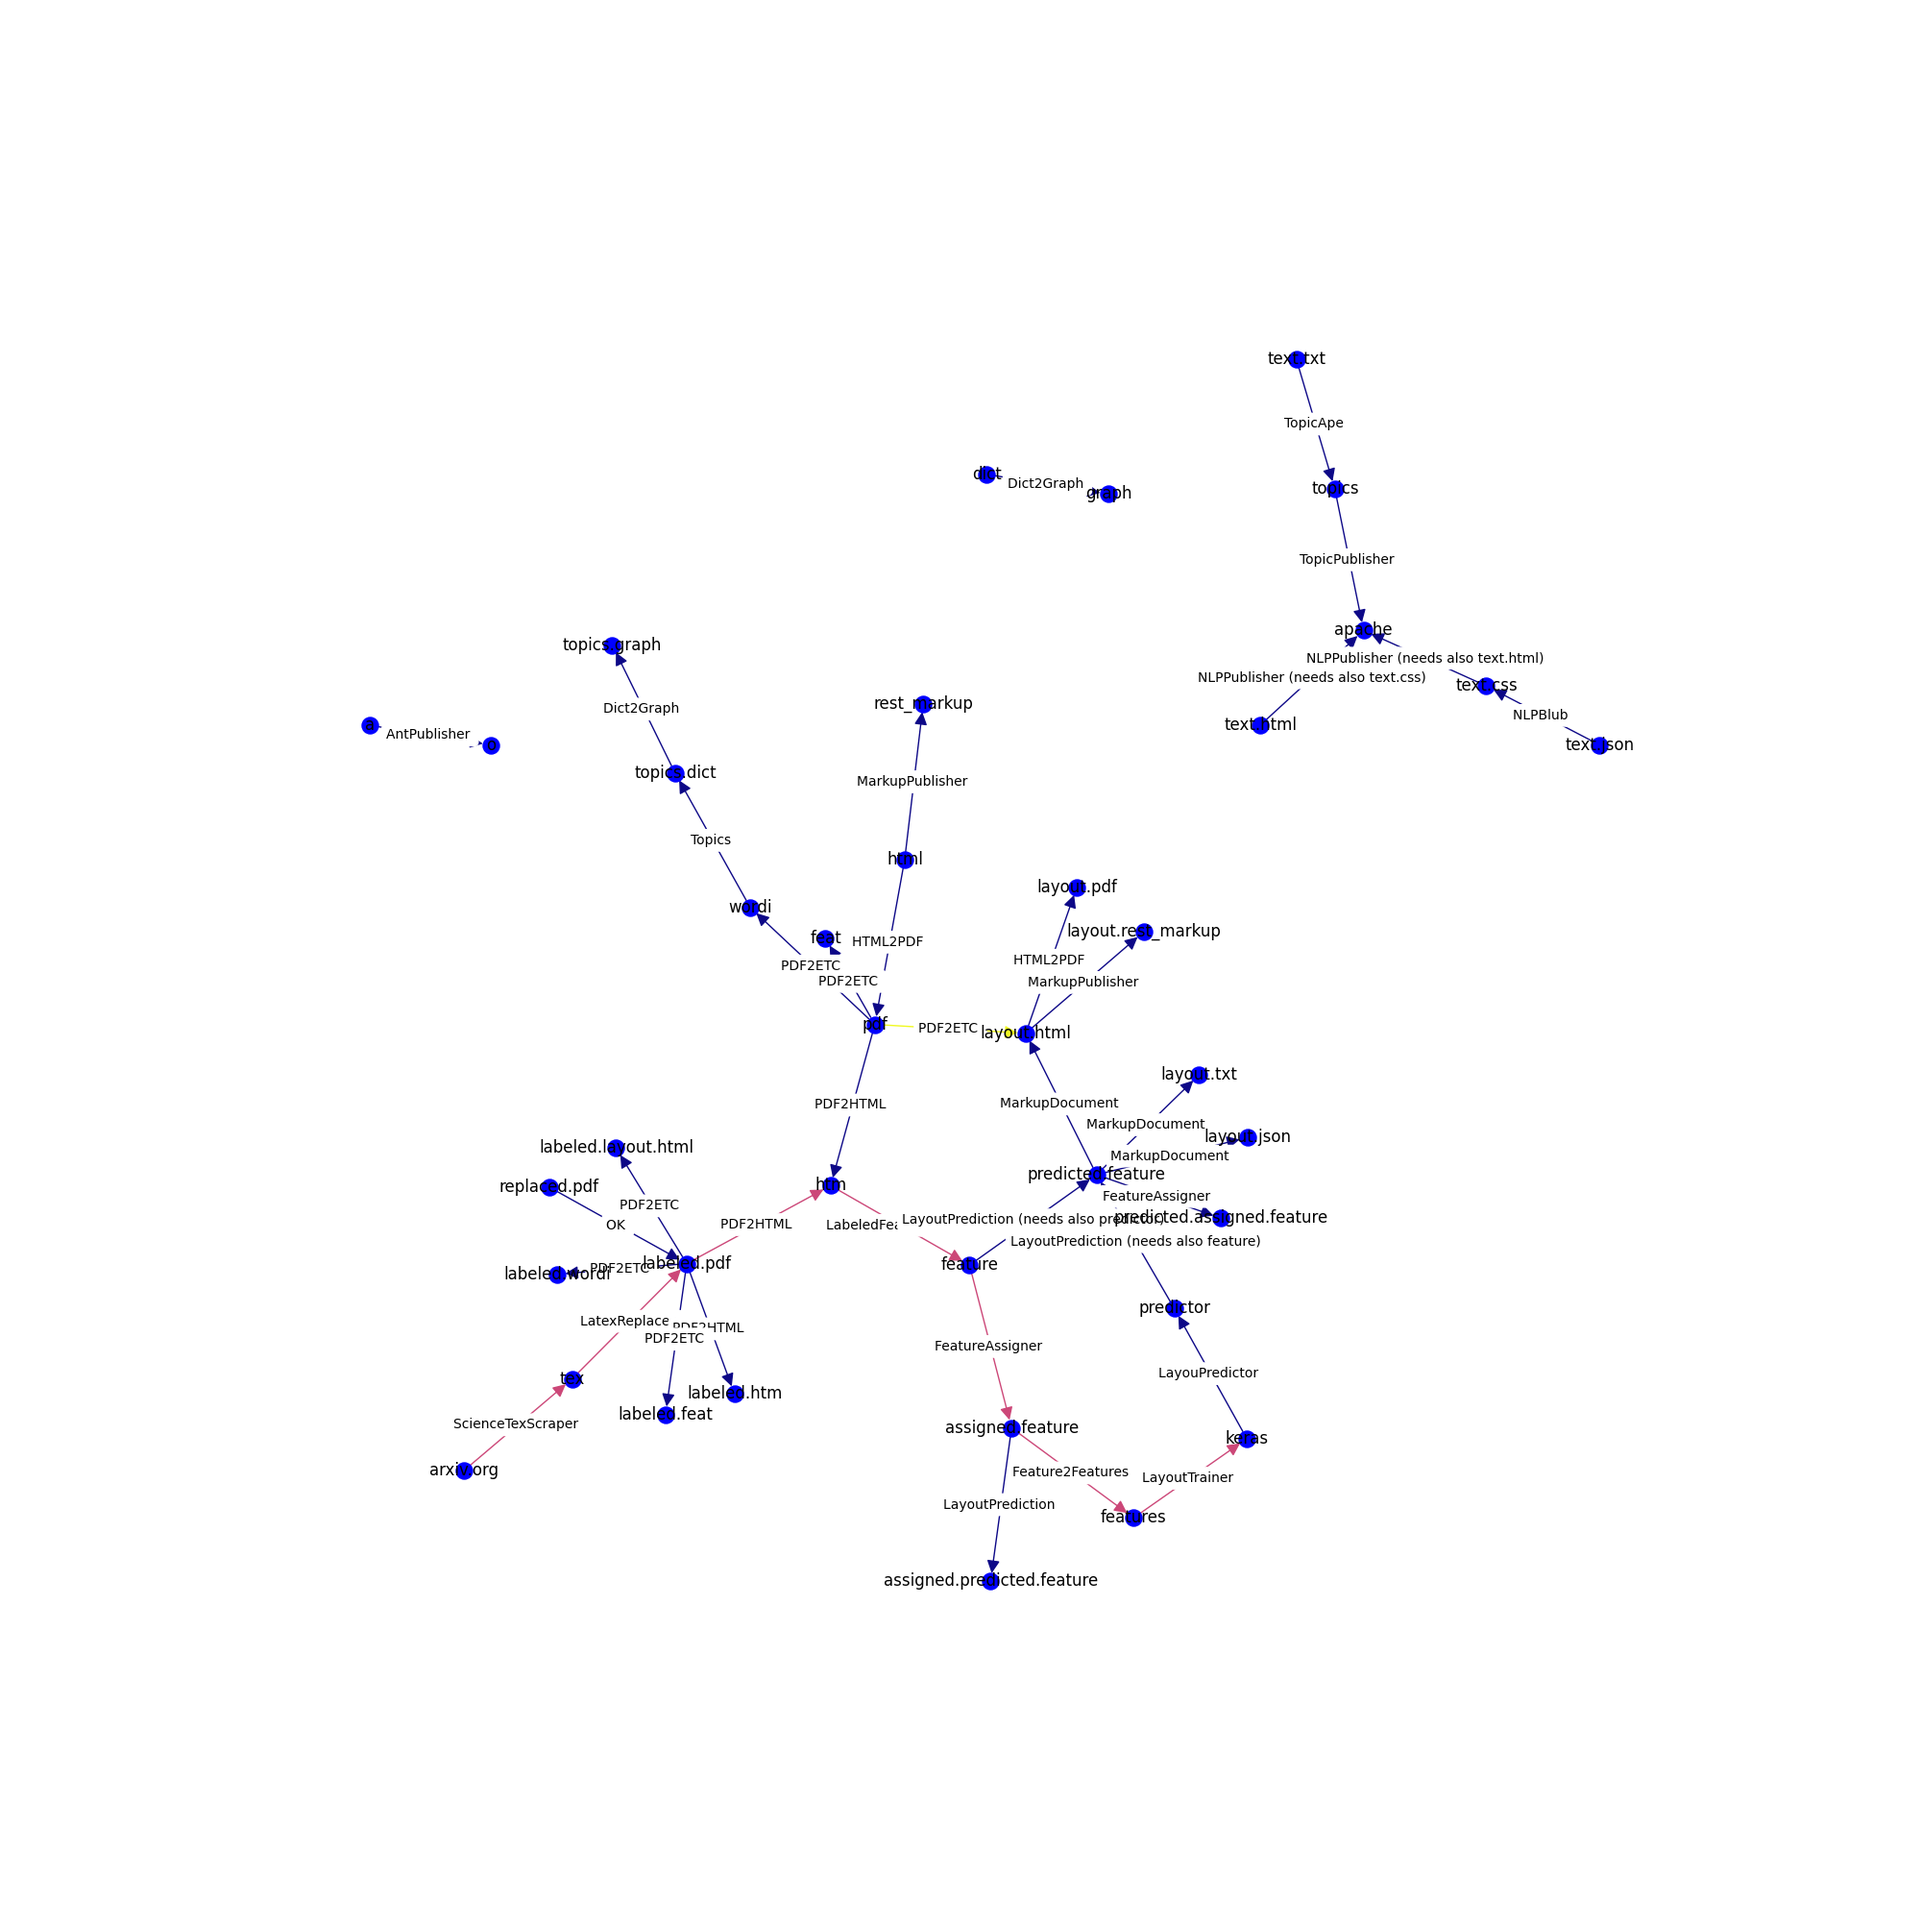
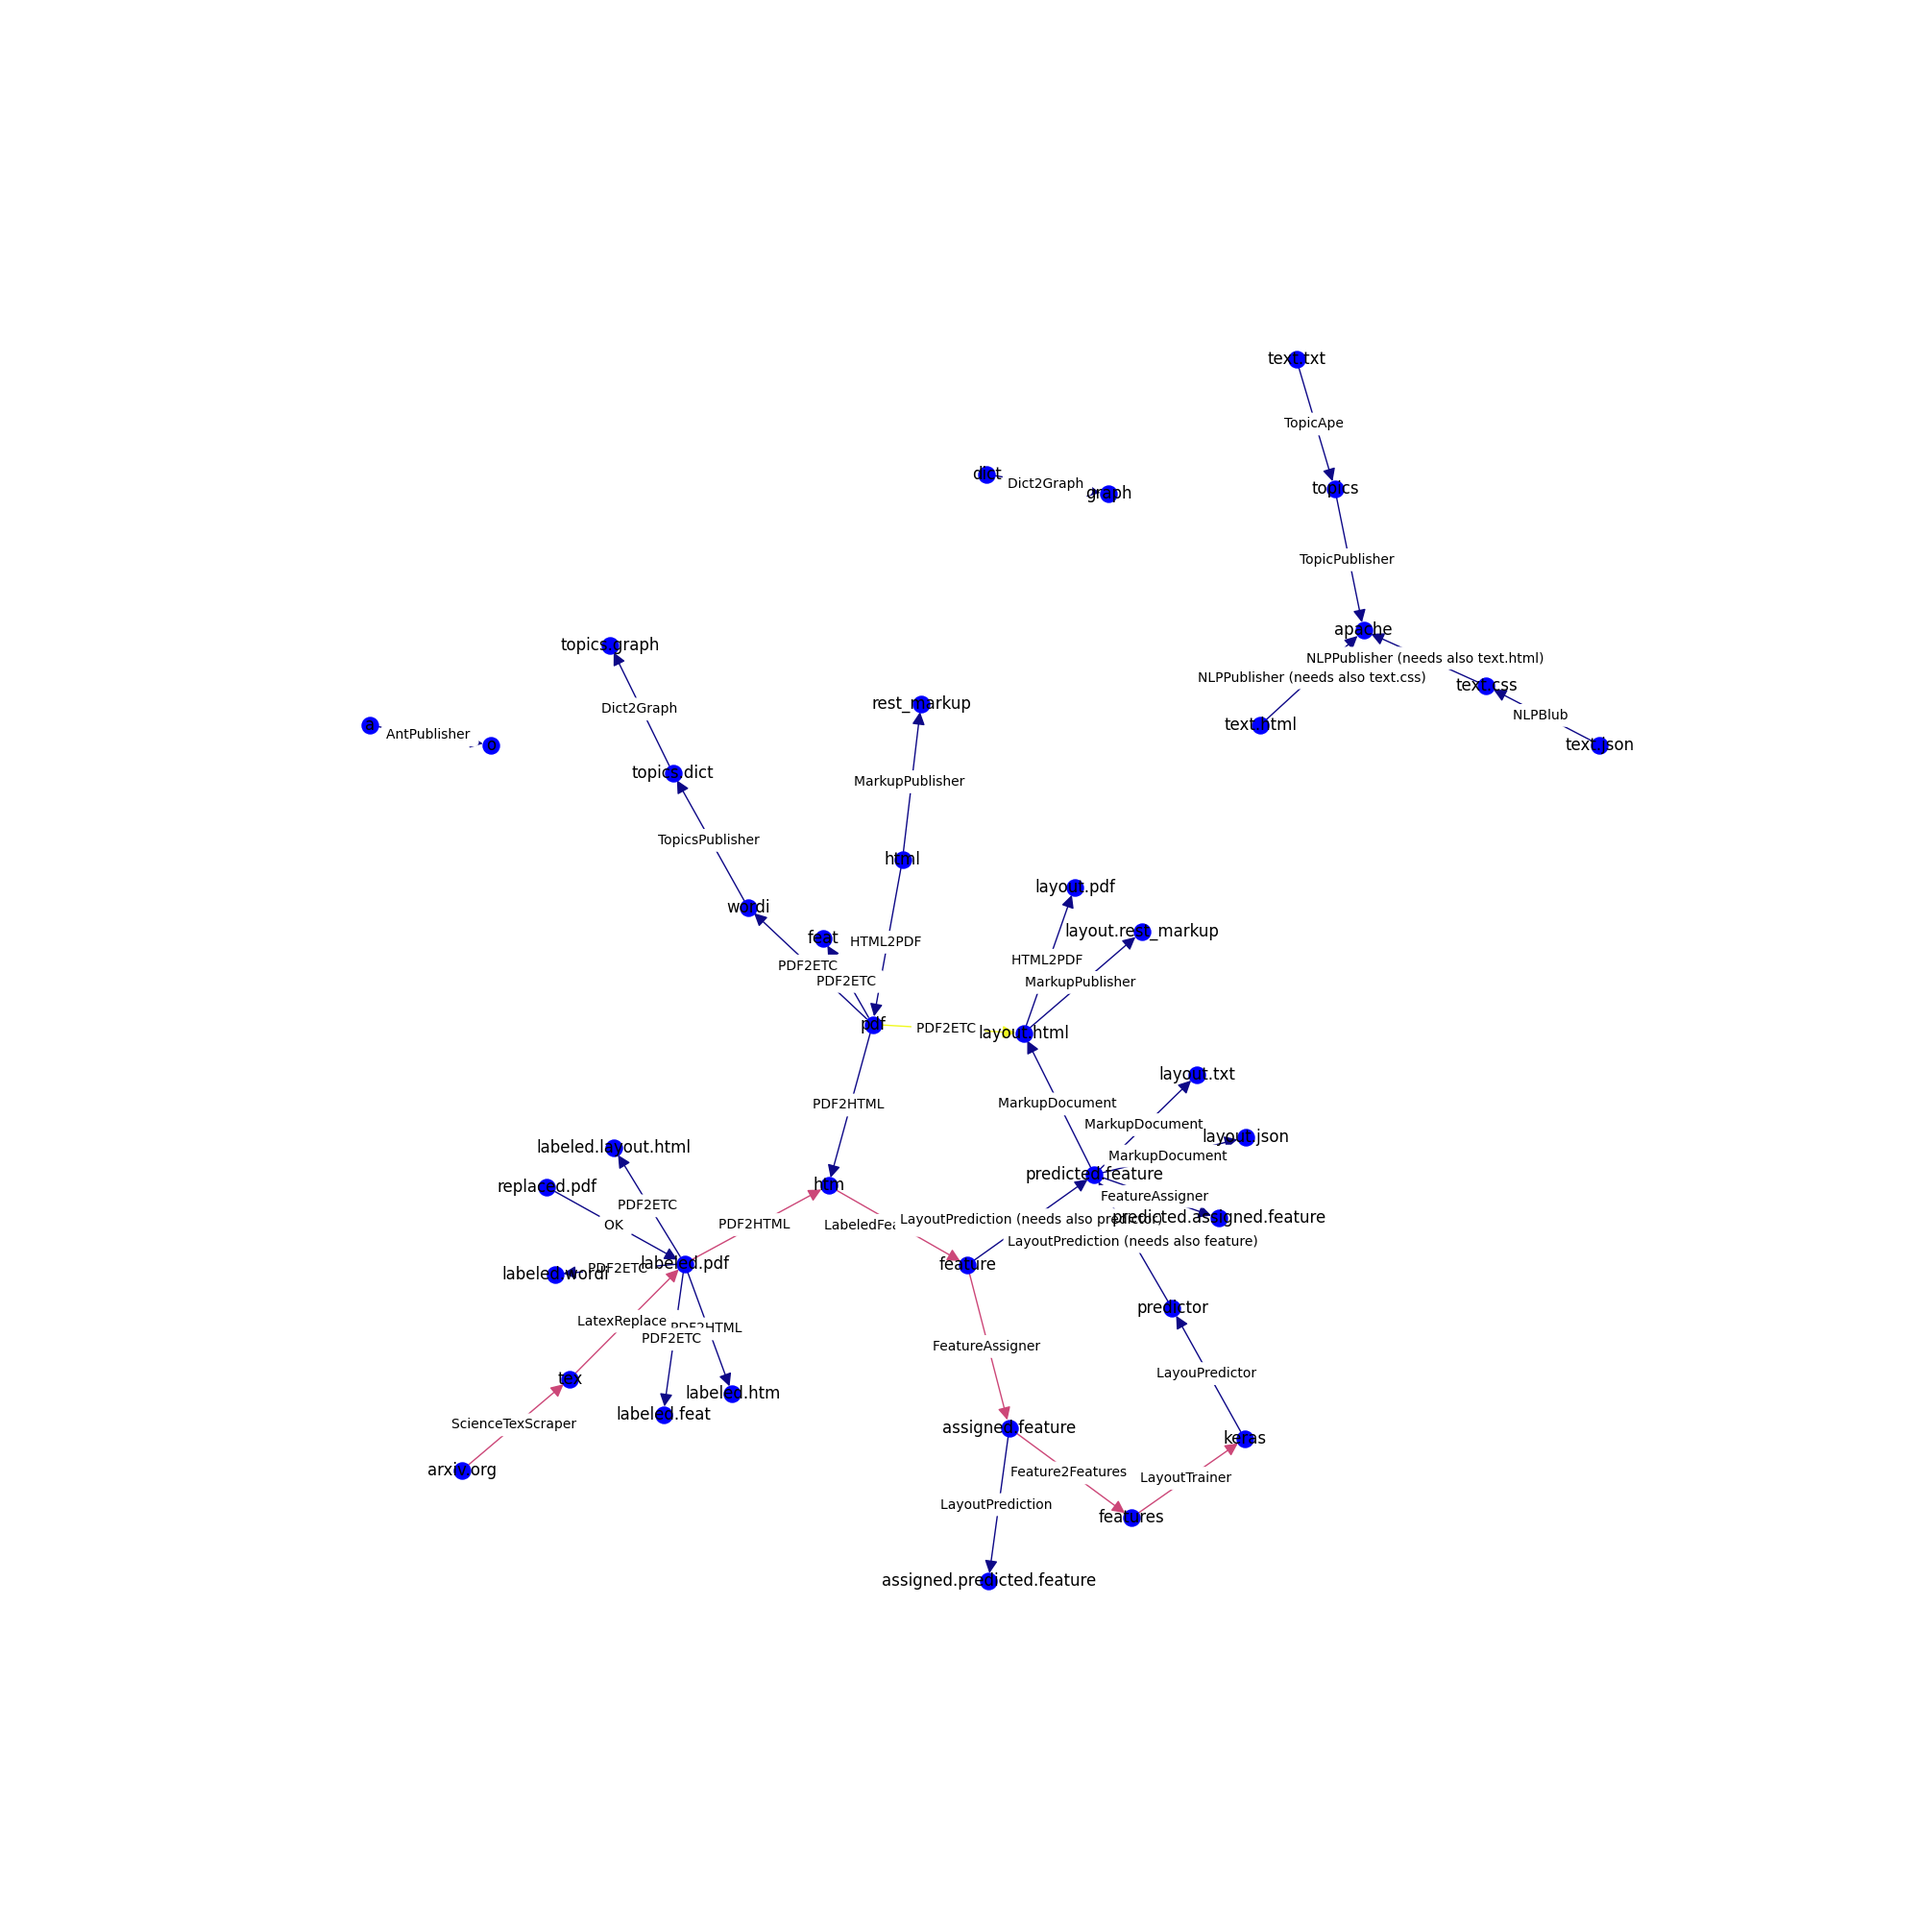
backend works representing the api graph, frontend does not show it...

diff --git a/layout_viewer/components/Graph.js b/layout_viewer/components/Graph.js
@@ -1,6 +1,8 @@
 import loadable from '@loadable/component'
 import dynamic from 'next/dynamic'
 import * as React from 'react'
+import Router, { withRouter } from 'next/router'
+
 
 if (typeof window === 'undefined') {
     global.window = {}
@@ -15,14 +17,16 @@ const ForceGraph3D = dynamic(
         ssr: false
     }
 )
+const ForwardedRefForceGraph3D = React.forwardRef((props, ref) => (
+  <ForceGraph3D {...props} forwardedRef={ref} />
+))
 // const ForceGraph3D = loadable(() => )
-import SpriteText from './SpriteText.js'
+//import SpriteText from './SpriteText.js'
 
 
-export default class Graph extends React.Component  {
+class Graph extends React.Component  {
     constructor(props) {
         super(props);
-        this.myRef = React.createRef();
 
         console.log(props)
         this.state = {
@@ -57,46 +61,54 @@ export default class Graph extends React.Component  {
         // Aim at node from outside it
           const distance = 40;
           const distRatio = 1 + distance/Math.hypot(node.x, node.y, node.z);
-          console.log("HANDLE CLICKs")
-          this.myRef.current.cameraPosition(
+           console.log("REF", this.myRef, this.state)
+
+          this.myRef.then(r => r.cameraPosition(
             { x: node.x * distRatio, y: node.y * distRatio, z: node.z * distRatio }, // new position
             node, // lookAt ({ x, y, z })
             3000  // ms transition duration
-          );
+          ));
+
+
     }
 
     render()  {
-           console.log("REF", this.myRef, this.state)
+                this.myRef = React.createRef();
+
+          console.log(this)
            return  (
-               <ForceGraph3D
-                  ref={this.myRef}
+               <ForwardedRefForceGraph3D
+                  ref={(ref) => this.myRef = ref}
+
 
                   graphData={ this.props.graph??this.state.graph}
-                  nodeLabel = 'id'
+                  nodeLabel = 'name'
                   nodeAutoColorBy = 'group'
+/*
+                  nodeThreeObject = {(node) =>
+                            {
+                                          const obj = new THREE.Mesh(
+                                new THREE.SphereGeometry(10),
+                                new THREE.MeshBasicMaterial({ depthWrite: false, transparent: true, opacity: 0 })
+                              );
 
-        nodeThreeObject = {(node) =>
-        {
-                      const obj = new THREE.Mesh(
-            new THREE.SphereGeometry(10),
-            new THREE.MeshBasicMaterial({ depthWrite: false, transparent: true, opacity: 0 })
-          );
+                          // add text sprite as child
+                          //const sprite = new SpriteText(node.name);
+                          //sprite.color = node.color;
+                          //sprite.textHeight = 8;
+                          //obj.add(sprite);
 
-          // add text sprite as child
-          const sprite = new SpriteText(node.id);
-          sprite.color = node.color;
-          sprite.textHeight = 8;
-          obj.add(sprite);
-
-          return obj;
-        }}
-                        onNodeClick={(node) => this.handleClick(node)}
-                        onNodeRightClick={(node) => console.log("FORWARD To DOCUMENT")}
+                          return obj;
+                        }}
+                onNodeClick={(node) => this.handleClick(node)}
+                onNodeRightClick={(node) =>
+                    Router.push({
+                    pathname: '/markup',
+                    query: { ... node }
+                })}*/
 
                />)
-
-/*
-
- */
     }
 }
+
+export default withRouter(Graph)

diff --git a/Topics/TopicMaker.py b/Topics/TopicMaker.py
@@ -119,6 +119,10 @@ class TopicMaker:
                     topics[list(topics)[i_group_label]] = sub_topics
             except TypeError as e:
                 logging.error(f"computing gaussian mixture {e}")
+                return topics
+            except IndexError as e:
+                logging.error(f"computing subtopics with {e}")
+                return topics
 
 
 
@@ -204,7 +208,7 @@ class TopicMaker:
                                        )
             constructed_doc = remove_stopwords(stop_word_removal(constructed_doc.lower()))
             doc = textacy.make_spacy_doc(constructed_doc, lang="en_core_web_md")
-            keywords = textrank(doc, normalize="lemma", topn=35)
+            keywords = textrank(doc, normalize="lemma", topn=7)[:3]
 
             # print(keywords)
             # print(constructed_doc[:2000])
@@ -237,7 +241,7 @@ class TopicMaker:
             duplicates = uniques[count > 1]
             vec_in_fun = np.vectorize(lambda w: w in duplicates or w in yet_used)
             mask = vec_in_fun(words)
-            scores[mask] = scores[mask] + i
+            scores[mask] = scores[mask] + 10
             # print(scores)
             # print(words)
             # print(scores.shape)
@@ -249,6 +253,8 @@ class TopicMaker:
             print(f"{i} SEEN {yet_used}")
 
             yet_used.extend([words[row, col] for col, row in zip(col_ids, row_ids)])
+            [print(i, words[row, col]) for col, row in zip(col_ids, row_ids)]
+
             titles_found.update(
                 {row: titles_found[row] + [words[row, col]]
                  for col, row in zip(col_ids, row_ids)

diff --git a/layouteagle/pathant/AntPublisher.py b/layouteagle/pathant/AntPublisher.py
@@ -1,13 +1,29 @@
+from RestPublisher.Resource import Resource
+from RestPublisher.RestPublisher import RestPublisher
+from RestPublisher.react import react
 from ant import Ant
+from layouteagle.helpers.cache_tools import uri_with_cache
 from layouteagle.pathant.Converter import converter
 from layouteagle.pathant.PathSpec import cache_flow
 
 @converter("a",'o')
-class AntPublisher(Ant):
-    def __init__(self, debug=True, *args, n=15, **kwargs):
-        super().__init__(*args, cached= cache_flow.iterate, **kwargs)
-        self.n = n
-        self.debug = debug
+class AntPublisher(RestPublisher, react) :
+    def __init__(self,
+                 *args,
+                 **kwargs):
+        super().__init__(*args, **kwargs, resource=Resource(
+            title="Ant",
+            type = "text",
+            path="ant",
+            route="ant",
+            access={"fetch": True, "read": True, "upload":True, "correct":True, "delete":True}))
 
     def call(self, graph, meta=None):
         return self.ant.graph(), meta
+
+    @uri_with_cache
+    def on_get(self, req, resp):
+        print("giving ant info")
+        return self.ant.graph()
+
+

diff --git a/Topics/TopicsPublisher.py b/Topics/TopicsPublisher.py
@@ -20,7 +20,7 @@ from layouteagle.pathant.Converter import converter
 
 
 @converter("wordi", "topics.dict")
-class Topics(RestPublisher, react):
+class TopicsPublisher(RestPublisher, react):
     def __init__(self,
                  *args,
                  **kwargs):
@@ -60,7 +60,7 @@ class Topics(RestPublisher, react):
                 with open(wordi, 'r', encoding='utf-8', errors='ignore')  as f:
                     firstlines = [f.readline() for i in range(1000)]
 
-                    words = [Topics.wordi_regex.search(w).group(1) for w in firstlines if Topics.wordi_regex.search(w)]
+                    words = [TopicsPublisher.wordi_regex.search(w).group(1) for w in firstlines if TopicsPublisher.wordi_regex.search(w)]
                     words = [w for w in words if w]
                     if words:
                         text = wordninja.split("".join(words)[:1000].replace(" ", ""))
@@ -81,5 +81,5 @@ class Topics(RestPublisher, react):
 
         pprint(type_spec_iterable(value))
 
-        return value[0]
+        return value[0][0]
 

diff --git a/RestPublisher/RestPublisher.py b/RestPublisher/RestPublisher.py
@@ -1,23 +1,12 @@
-import itertools
-import logging
-import mimetypes
-import os
-import uuid
-from typing import List, Tuple, Dict
 
-import falcon as falcon
-import pandas
-from pip._vendor import msgpack
+import os
 
 from RestPublisher.Resource import Resource
 from RestPublisher.react import react
-from layouteagle import config
-from layouteagle.helpers.cache_tools import file_persistent_cached_generator
-from layouteagle.pathant.Converter import converter
 from layouteagle.pathant.PathAnt import PathAnt
 from layouteagle.pathant.PathSpec import PathSpec
 
-from flask import request, jsonify, Blueprint
+from flask import jsonify, Blueprint
 
 
 bp = Blueprint('blueprint', __name__, template_folder='templates')
@@ -171,6 +160,7 @@ export default class ??title!! extends React.Component<State, Props> {
     }
     
     render ()  {
+    console.log("values", this.state.??title!!s)
         if ("??type!!" == "text")  {
             console.log("RENDER", this.state.??title!!s)
             return (<>

diff --git a/backend.py b/backend.py
@@ -40,13 +40,14 @@ if __name__ ==  "__main__":
 else:
 
     from RestPublisher.MarkupPublisher import MarkupPublisher
-    from Topics.Topics import Topics
+    from layouteagle.pathant.AntPublisher import AntPublisher
+    from Topics.TopicsPublisher import TopicsPublisher
     from layouteagle.LayoutEagle import LayoutEagle
 
     publishing = {
         '/markup': MarkupPublisher,
-        '/topics': Topics,
-        '/ant': PathAnt
+        '/topics': TopicsPublisher,
+        '/ant': AntPublisher
         # 'commands':  RestPublisher("commands")
     }
 

diff --git a/layouteagle/LayoutEagle.py b/layouteagle/LayoutEagle.py
@@ -29,7 +29,7 @@ class LayoutEagle:
     from TestArchitecture.NLP.topicape import TopicApe
     from StandardConverter.Dict2Graph import Dict2Graph
 
-    from Topics.Topics import Topics
+    from Topics.TopicsPublisher import TopicsPublisher
     from UserOk import UserOk
 
     def __init__(self):

diff --git a/layouteagle/pathant/PathAnt.py b/layouteagle/pathant/PathAnt.py
@@ -22,6 +22,7 @@ class PathAnt:
 
         for _from, _to, functional_object in converters:
             self.add_edge(_from, _to, functional_object)
+            functional_object.ant = self
 
         for (_froms1, _tos1, functional_object1), \
             (_froms2, _tos2, functional_object2)  \
